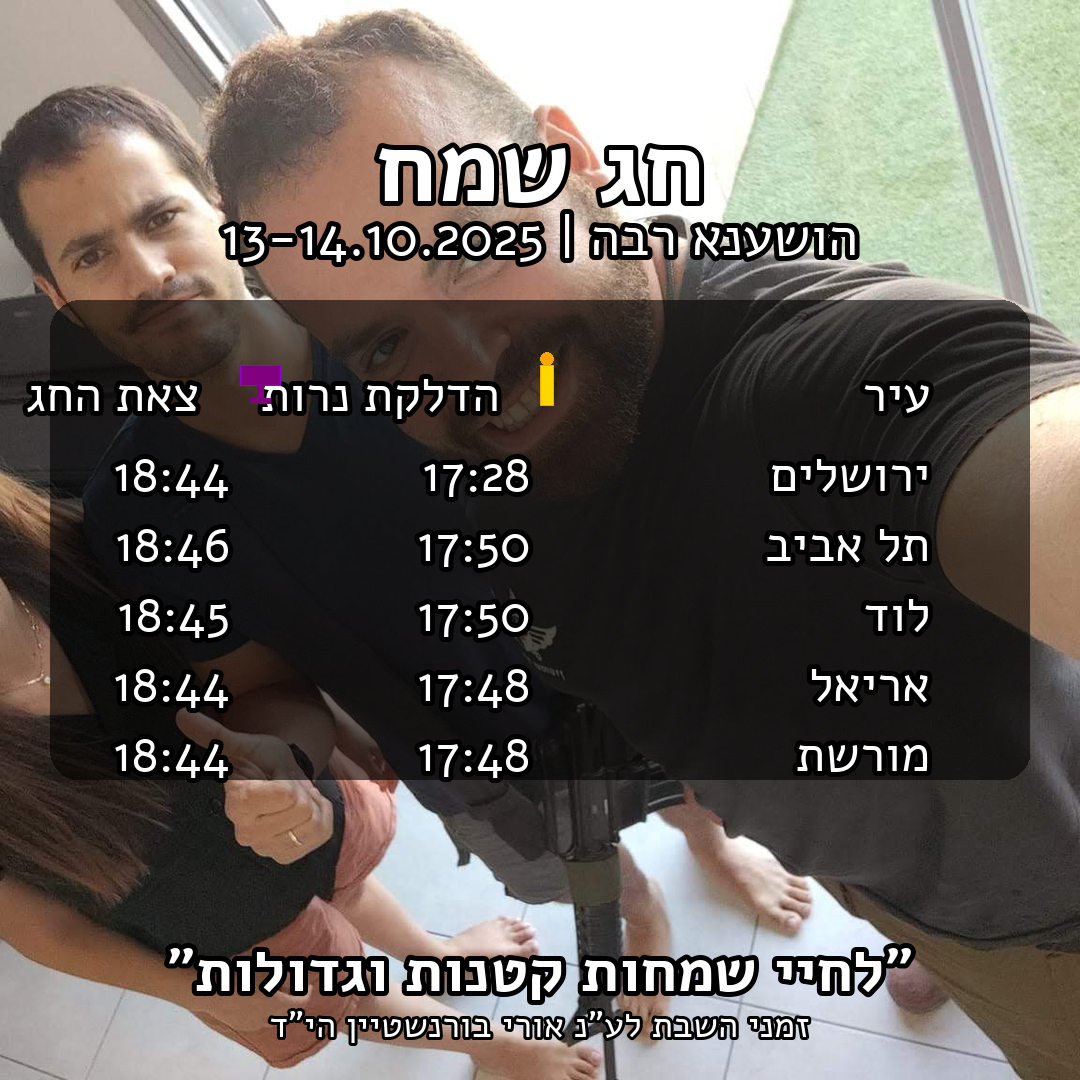
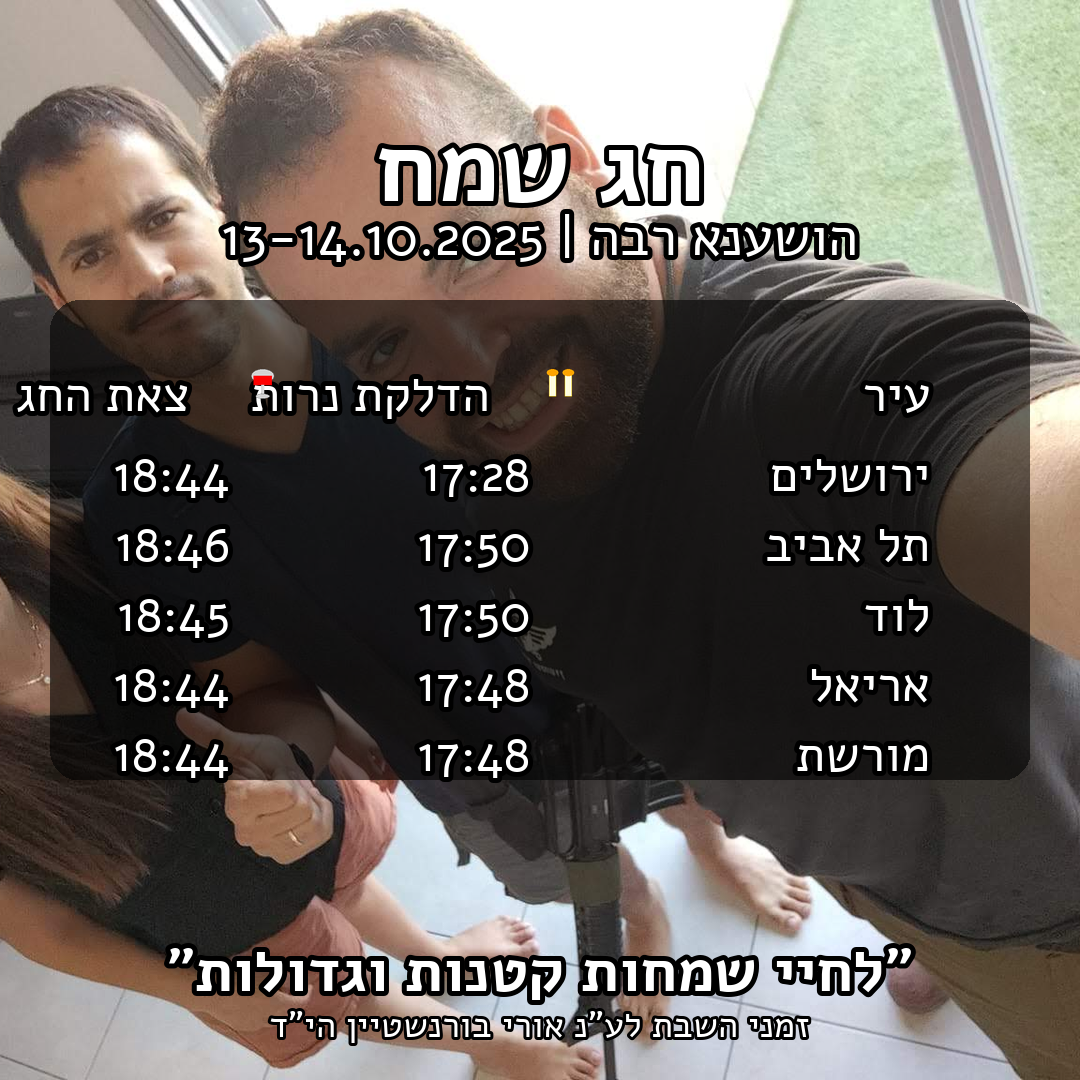
🖼 שדרוג לאייקונים מקצועיים: שימוש בתמונות PNG
מעבר מאייקונים מצוירים לתמונות מקצועיות:
✅ תיקיית icons/ חדשה לאייקונים
✅ פונקציות טעינה ושינוי גודל: load_and_resize_icon()
✅ פונקציית הדבקה עם שקיפות: paste_icon()

אייקונים חדשים:
🕯 icons/candles.png - נרות שבת מקצועיים
🍷 icons/wine_glass.png - כוס יין מעוצבת

היתרונות:
- איכות גרפית גבוהה
- שקיפות מלאה (RGBA)
- גודל מתאים אוטומטית
- קל להחליף אייקונים
- נראה מקצועי ויפה

הוראות למשתמש:
החלף את התמונות בתיקיית icons/ בתמונות שלך:
- candles.png (נרות שבת)
- wine_glass.png (כוס יין)

עכשיו האייקונים נראים מקצועיים ומעוצבים! 🎨

Changed region(s): [[0.2139, 0.3056, 0.55, 0.3972], [0.0, 0.3361, 0.1833, 0.3972]]

diff --git a/make_shabbat_posts.py b/make_shabbat_posts.py
@@ -81,42 +81,26 @@ def load_font(size: int, bold=False) -> ImageFont.FreeTypeFont:
                 continue
     return ImageFont.load_default()
 
-def draw_candle_icon(draw, x, y, size=20):
-    """ציור אייקון נר פשוט"""
-    # גוף הנר (מלבן)
-    candle_width = size // 3
-    candle_height = size
-    draw.rectangle([x, y, x + candle_width, y + candle_height], fill="gold", outline="orange", width=1)
+def load_and_resize_icon(icon_path: str, size: int) -> Image.Image:
+    """טוען ומשנה גודל של אייקון"""
+    try:
+        icon = Image.open(icon_path)
+        # המרה ל-RGBA אם צריך (לתמיכה בשקיפות)
+        if icon.mode != 'RGBA':
+            icon = icon.convert('RGBA')
+        # שינוי גודל תוך שמירה על יחס גובה-רוחב
+        icon = icon.resize((size, size), Image.Resampling.LANCZOS)
+        return icon
+    except Exception as e:
+        print(f"שגיאה בטעינת אייקון {icon_path}: {e}")
+        return None
 
-    # להבה (אליפסה)
-    flame_size = size // 3
-    flame_x = x + candle_width // 2 - flame_size // 2
-    flame_y = y - flame_size
-    draw.ellipse([flame_x, flame_y, flame_x + flame_size, flame_y + flame_size], fill="orange")
-
-def draw_wine_cup_icon(draw, x, y, size=20):
-    """ציור אייקון כוס יין פשוט"""
-    # כוס (טרפז)
-    cup_width = size
-    cup_height = size // 2
-
-    # ציור כוס כמלבן עם קווים
-    draw.rectangle([x, y, x + cup_width, y + cup_height], fill="purple", outline="darkviolet", width=1)
-
-    # רגל הכוס
-    stem_width = size // 6
-    stem_height = size // 3
-    stem_x = x + cup_width // 2 - stem_width // 2
-    draw.rectangle([stem_x, y + cup_height, stem_x + stem_width, y + cup_height + stem_height],
-                  fill="purple")
-
-    # בסיס
-    base_width = size // 2
-    base_height = size // 8
-    base_x = x + cup_width // 2 - base_width // 2
-    draw.rectangle([base_x, y + cup_height + stem_height,
-                   base_x + base_width, y + cup_height + stem_height + base_height],
-                  fill="purple")
+def paste_icon(img: Image.Image, icon_path: str, x: int, y: int, size: int):
+    """מדביק אייקון על התמונה"""
+    icon = load_and_resize_icon(icon_path, size)
+    if icon:
+        # מדביק עם שקיפות
+        img.paste(icon, (x, y), icon)
 
 # ========= DATA FROM JEWCAL =========
 def find_event_sequence(start_date: date) -> tuple[date, date, str, str]:
@@ -609,22 +593,25 @@ def compose_poster(bg_img: Image.Image, week_info: dict, all_cities_rows: list, 
 
     draw_text_with_stroke(draw, (col_city_x, y), "עיר", row_font, fill, stroke, stroke_w, anchor="ra", rtl=True)
 
+    # גודל האייקונים
+    icon_size = row_font.size - 5
+
     if event_type == "yomtov":
-        # ציור אייקון נר
-        draw_candle_icon(draw, col_candle_x + 10, y + 5, size=row_font.size - 10)
-        draw_text_with_stroke(draw, (col_candle_x - 30, y), "הדלקת נרות", row_font, fill, stroke, stroke_w, anchor="ra", rtl=True)
+        # הדבקת אייקון נרות
+        paste_icon(img, "icons/candles.png", col_candle_x + 10, y, icon_size)
+        draw_text_with_stroke(draw, (col_candle_x - 40, y), "הדלקת נרות", row_font, fill, stroke, stroke_w, anchor="ra", rtl=True)
 
-        # ציור אייקון כוס יין
-        draw_wine_cup_icon(draw, col_hav_x + 10, y + 5, size=row_font.size - 10)
-        draw_text_with_stroke(draw, (col_hav_x - 30, y), "צאת החג", row_font, fill, stroke, stroke_w, anchor="ra", rtl=True)
+        # הדבקת אייקון כוס יין
+        paste_icon(img, "icons/wine_glass.png", col_hav_x + 10, y, icon_size)
+        draw_text_with_stroke(draw, (col_hav_x - 40, y), "צאת החג", row_font, fill, stroke, stroke_w, anchor="ra", rtl=True)
     else:
-        # ציור אייקון נר
-        draw_candle_icon(draw, col_candle_x + 10, y + 5, size=row_font.size - 10)
-        draw_text_with_stroke(draw, (col_candle_x - 30, y), "כניסת שבת", row_font, fill, stroke, stroke_w, anchor="ra", rtl=True)
+        # הדבקת אייקון נרות
+        paste_icon(img, "icons/candles.png", col_candle_x + 10, y, icon_size)
+        draw_text_with_stroke(draw, (col_candle_x - 40, y), "כניסת שבת", row_font, fill, stroke, stroke_w, anchor="ra", rtl=True)
 
-        # ציור אייקון כוס יין
-        draw_wine_cup_icon(draw, col_hav_x + 10, y + 5, size=row_font.size - 10)
-        draw_text_with_stroke(draw, (col_hav_x - 30, y), "צאת שבת", row_font, fill, stroke, stroke_w, anchor="ra", rtl=True)
+        # הדבקת אייקון כוס יין
+        paste_icon(img, "icons/wine_glass.png", col_hav_x + 10, y, icon_size)
+        draw_text_with_stroke(draw, (col_hav_x - 40, y), "צאת שבת", row_font, fill, stroke, stroke_w, anchor="ra", rtl=True)
     y += row_font.size + 30
 
     for name, candle_hhmm, hav_hhmm in all_cities_rows:
